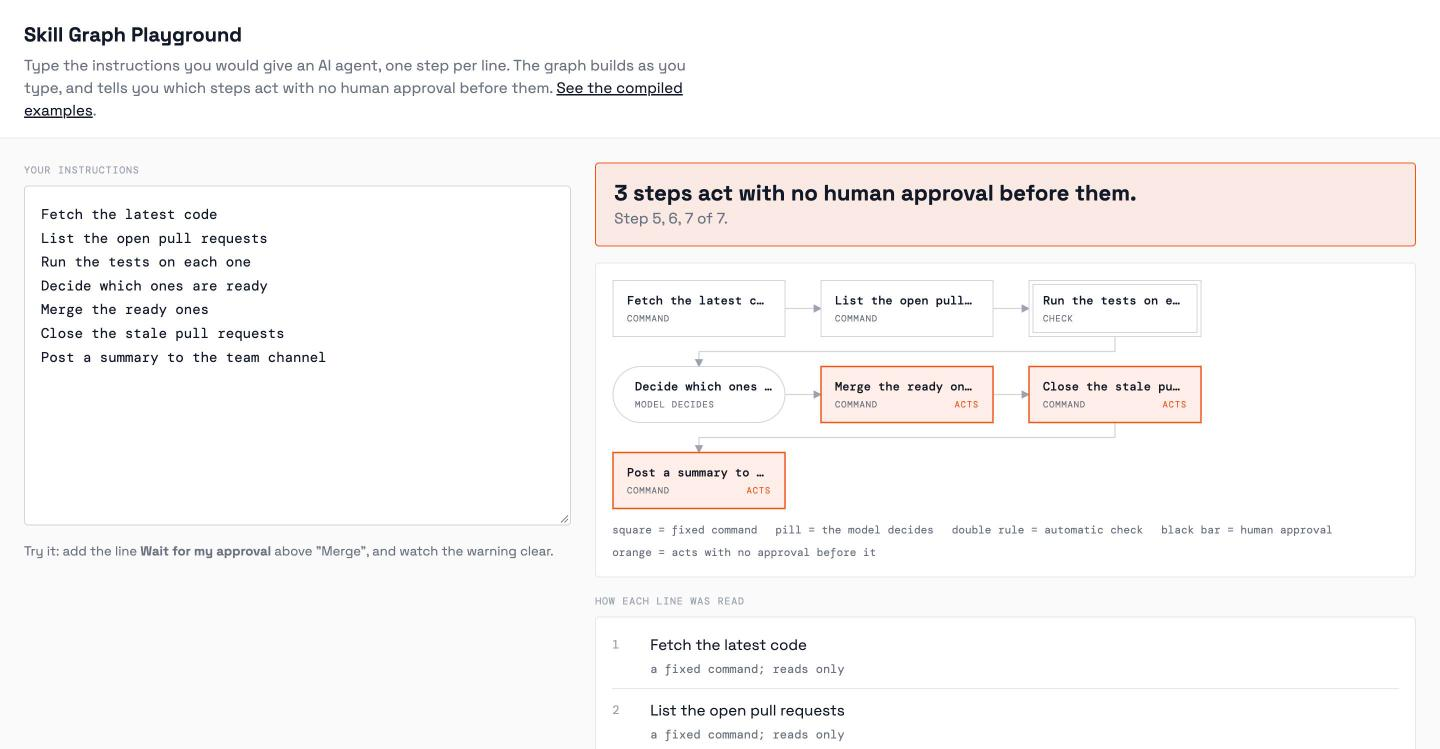
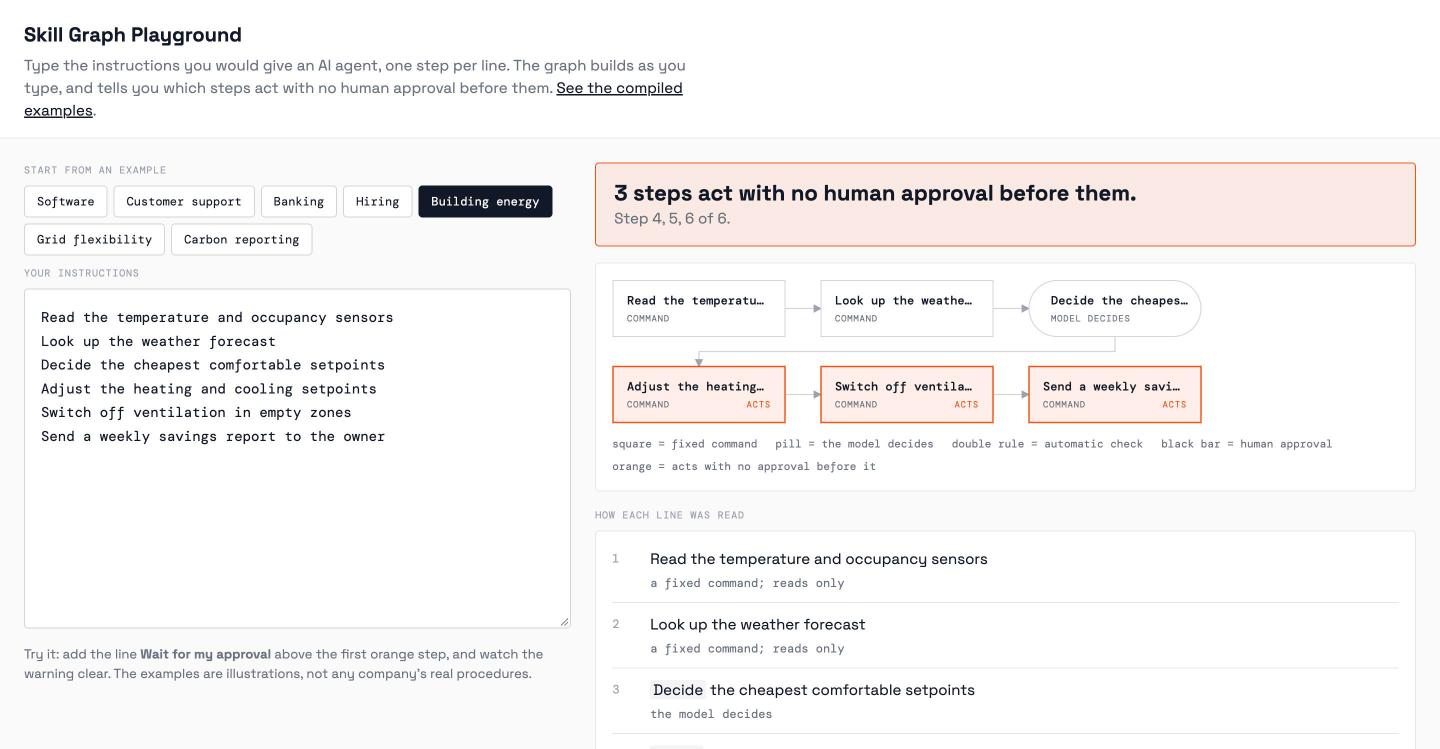
Playground: seven industry examples, including energy and sustainability

diff --git a/docs/playground.html b/docs/playground.html
@@ -26,6 +26,10 @@ header p { margin: 4px 0 0; color: var(--muted); max-width: 72ch; }
 header a { color: var(--text); }
 .layout { display: grid; grid-template-columns: minmax(280px, 2fr) minmax(0, 3fr); gap: 24px; padding: 24px; align-items: start; }
 .label { font-family: var(--mono); font-size: 10px; letter-spacing: 0.08em; text-transform: uppercase; color: var(--faint); margin: 0 0 8px; }
+.presets { display: flex; flex-wrap: wrap; gap: 6px; margin-bottom: 10px; }
+.presets button { background: var(--surface); color: var(--text); border: 1px solid var(--border-2); padding: 6px 12px; }
+.presets button:hover { opacity: 1; border-color: var(--text); }
+.presets button[aria-pressed="true"] { background: var(--text); color: var(--surface); border-color: var(--text); }
 textarea { width: 100%; min-height: 340px; resize: vertical; padding: 16px; border: 1px solid var(--border-2); border-radius: var(--radius); background: var(--surface); color: var(--text); font-family: var(--mono); font-size: 14px; line-height: 1.7; }
 textarea:focus { outline: 2px solid var(--text); outline-offset: 1px; }
 .hint { color: var(--muted); font-size: 13px; margin: 10px 0 0; }
@@ -68,9 +72,11 @@ button:hover { opacity: 0.85; }
 </header>
 <div class="layout">
   <section>
+    <div class="label">Start from an example</div>
+    <div class="presets" id="presets"></div>
     <div class="label">Your instructions</div>
     <textarea id="src" spellcheck="false" aria-label="Agent instructions, one step per line"></textarea>
-    <p class="hint">Try it: add the line <b>Wait for my approval</b> above "Merge", and watch the warning clear.</p>
+    <p class="hint">Try it: add the line <b>Wait for my approval</b> above the first orange step, and watch the warning clear. The examples are illustrations, not any company's real procedures.</p>
   </section>
   <section>
     <div id="verdict" class="verdict" aria-live="polite"></div>
@@ -88,18 +94,56 @@ button:hover { opacity: 0.85; }
   </section>
 </div>
 <script>
-const SAMPLE = `Fetch the latest code
+// Illustrative procedures, one per industry. Not taken from any real company.
+const PRESETS = {
+  "Software": `Fetch the latest code
 List the open pull requests
 Run the tests on each one
 Decide which ones are ready
 Merge the ready ones
 Close the stale pull requests
-Post a summary to the team channel`;
+Post a summary to the team channel`,
+  "Customer support": `Read the customer's ticket
+Look up the order history
+Decide whether the complaint is valid
+Refund the customer
+Send an apology email
+Close the ticket`,
+  "Banking": `Read the loan application
+Verify the identity documents
+Look up the credit history
+Decide whether the loan should go ahead
+Send the decision to the customer
+Update the customer record`,
+  "Hiring": `Read the new applications
+Rank the candidates against the job description
+Decide who to reject
+Send the rejection emails
+Book interviews with the top five`,
+  "Building energy": `Read the temperature and occupancy sensors
+Look up the weather forecast
+Decide the cheapest comfortable setpoints
+Adjust the heating and cooling setpoints
+Switch off ventilation in empty zones
+Send a weekly savings report to the owner`,
+  "Grid flexibility": `Read the grid operator's price signal
+Forecast tomorrow's demand
+Decide which loads can be shifted
+Curtail the flexible loads
+Dispatch the battery to the grid
+Send the settlement figures to the grid operator`,
+  "Carbon reporting": `Collect the energy bills and fuel records
+Calculate the emissions for each site
+Decide which figures look wrong
+Overwrite the flagged figures with estimates
+Submit the emissions report to the regulator
+Buy carbon credits to cover the gap`,
+};
 
 // Keyword rules. Order matters only within a group; kind and effect are read separately.
 const APPROVAL = /\b(wait for (my|your|their|human|a human'?s?) (approval|ok|go-ahead|sign-?off)|wait for approval|ask (me|the user|a human|for approval|for confirmation)|confirm with (me|the user|a human)|get (my |human )?(approval|sign-?off)|needs? (my |human )?approval|show (me|the user) .* before|human review|i approve)\b/i;
 const CONDITIONAL = /\b(if|unless|when|only when|in case)\b/i;
-const REMOTE = /\b(merge|push|deploy|publish|release|ship|send|email|post|tweet|reply|pay|refund|charge|transfer|wire|book|order|purchase|buy|close (the |all |any |stale |old )*(prs?|pull requests?|issues?|tickets?)|(create|file) (a |an |the |new )*(issues?|prs?|pull requests?|tickets?)|open (a |an |new )+(issues?|prs?|pull requests?|tickets?)|update (the )?(crm|customer|record|ticket|production|prod)|write to (the )?(database|production|prod))\b/i;
+const REMOTE = /\b(merge|push|deploy|restart|reboot|roll ?back|shut ?down|cancel|adjust|switch (off|on)|turn (off|on)|curtail|dispatch|submit|publish|release|ship|send|email|post|tweet|reply|pay|refund|charge|transfer|wire|book|place (an |the )?order|purchase|buy|close (the |all |any |stale |old )*(prs?|pull requests?|issues?|tickets?)|(create|file) (a |an |the |new )*(issues?|prs?|pull requests?|tickets?)|open (a |an |new )+(issues?|prs?|pull requests?|tickets?)|update (the )?(crm|customer|record|ticket|production|prod)|write to (the )?(database|production|prod))\b/i;
 const DESTRUCTIVE = /\b(delete|remove|drop|wipe|purge|erase|truncate|rm -rf|overwrite)\b/i;
 const GATE = /\b(tests?|build|lint|validate|verify|check|scan|type-?check|dry[- ]run)\b/i;
 const JUDGMENT = /\b(decide|judge|choose|pick|triage|assess|evaluate|determine|prioriti[sz]e|classify|rank|draft|write|summari[sz]e|recommend|plan)\b/i;
@@ -226,9 +270,24 @@ function cypher(steps) {
 const src = document.getElementById("src");
 let steps = [];
 function update() { steps = parse(src.value); verdict(steps); draw(steps); explain(steps); }
-src.value = SAMPLE;
-src.addEventListener("input", update);
+const presetBar = document.getElementById("presets");
+function usePreset(name) {
+  src.value = PRESETS[name];
+  [...presetBar.children].forEach(b => b.setAttribute("aria-pressed", String(b.textContent === name)));
+  update();
+}
+Object.keys(PRESETS).forEach(name => {
+  const b = document.createElement("button");
+  b.type = "button"; b.textContent = name;
+  b.addEventListener("click", () => usePreset(name));
+  presetBar.append(b);
+});
+src.addEventListener("input", () => {
+  [...presetBar.children].forEach(b => b.setAttribute("aria-pressed", "false"));
+  update();
+});
 window.addEventListener("resize", () => draw(steps));
+usePreset("Software");
 document.getElementById("copy").addEventListener("click", async () => {
   const note = document.getElementById("copied");
   try { await navigator.clipboard.writeText(cypher(steps)); note.textContent = "Copied. Paste it into the Neo4j query box and run it."; }

diff --git a/README.md b/README.md
@@ -191,6 +191,37 @@ unusually. Use "Copy as Cypher" to paste the result into Neo4j.
 
 ![The playground: typed instructions on the left, the graph and the flagged steps on the right](docs/playground.jpg)
 
+The playground starts from seven example procedures. They are illustrations I wrote,
+not any company's real instructions:
+
+| Example | The steps it flags |
+|---|---|
+| Software | merging and closing pull requests, posting to a channel |
+| Customer support | refunding a customer, emailing them, closing the ticket |
+| Banking | sending a loan decision, updating the customer record |
+| Hiring | sending rejection emails, booking interviews |
+| Building energy | changing heating and cooling setpoints, switching off ventilation |
+| Grid flexibility | curtailing loads, dispatching a battery to the grid |
+| Carbon reporting | overwriting figures with estimates, submitting a report to a regulator, buying credits |
+
+### Where the question matters now
+
+- **Agents already act in the physical world.** Autonomous control of heating and
+  cooling is in production in thousands of buildings
+  ([TIME](https://time.com/7201501/ai-buildings-energy-efficiency/)). An instruction
+  that lets an agent change setpoints is worth being able to audit.
+- **Regulated work is next.** McKinsey describes banks moving agents into end-to-end
+  processes such as loan origination and identity checks
+  ([McKinsey](https://www.mckinsey.com/featured-insights/mckinsey-explainers/banking-and-ai-when-the-tech-starts-doing-the-work-not-just-assisting-it)).
+- **Human oversight is becoming a legal requirement.** Article 14 of the EU AI Act
+  requires high-risk AI systems to be built so that people can oversee them. The
+  high-risk list includes systems that manage the supply of electricity, gas and
+  heating, and systems used in hiring. "Which steps act with no human approval before
+  them?" is the first thing an oversight review would ask.
+
+Skill Graph does not make a system compliant with anything. It makes that one
+question answerable.
+
 ### The full way
 
 You need Python 3 with `pyyaml` and `jsonschema`, and a Neo4j 5 database.
